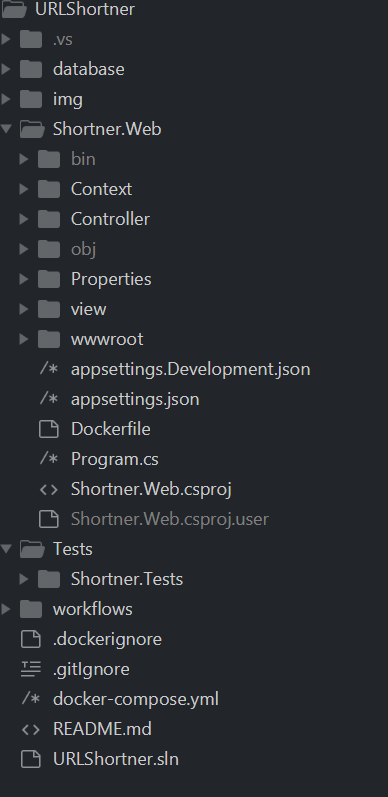
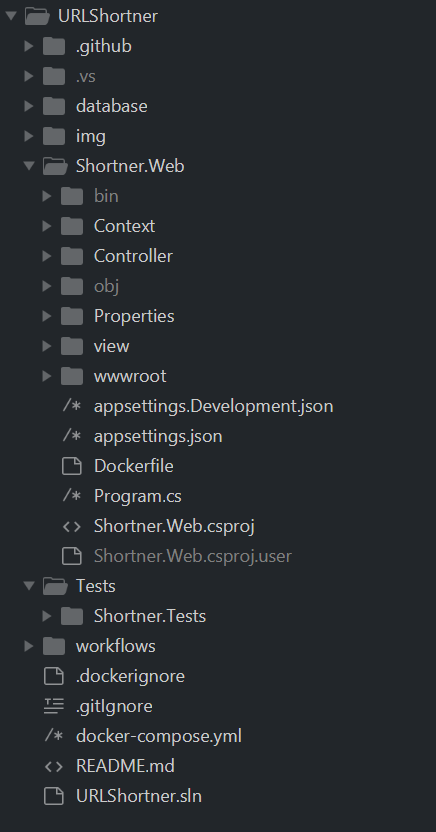
Changed: Readme file updated do folder structure

diff --git a/README.md b/README.md
@@ -89,7 +89,7 @@ The structure of the application is as follows
  - Shortner.Web: The Web Application in C#
     - view: The angular View Setup
 - Tests/Shortner.Tests: Unit Test for testing the backend Services, this project runs on xUnit, Moq and EF. For the purpose of testing an InMemory database is used.
-- worflows: Contains CI required to build and run the tests.
+- .github/worflows: Contains CI required to build and run the tests.
 - docker-compose: contains the entire setup required to run the application
 
 ### How to Run the Application
